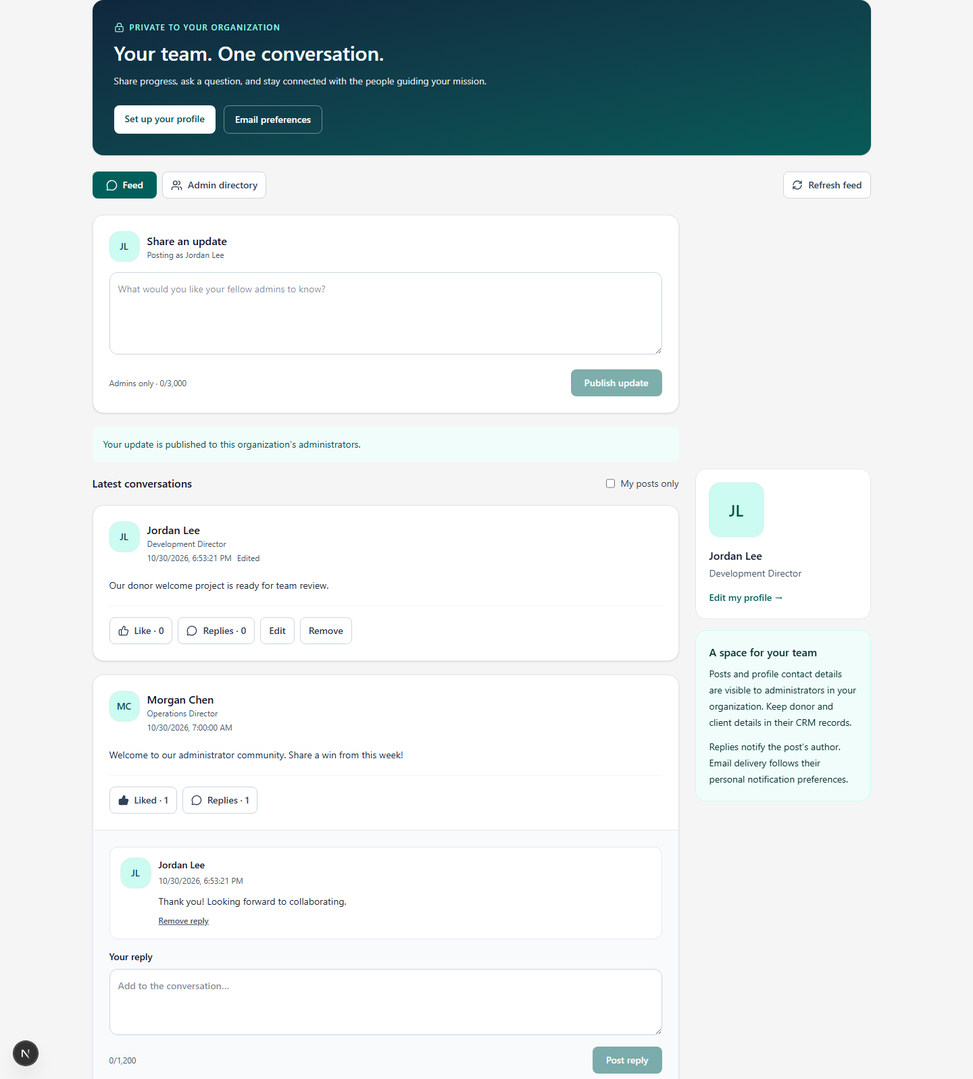
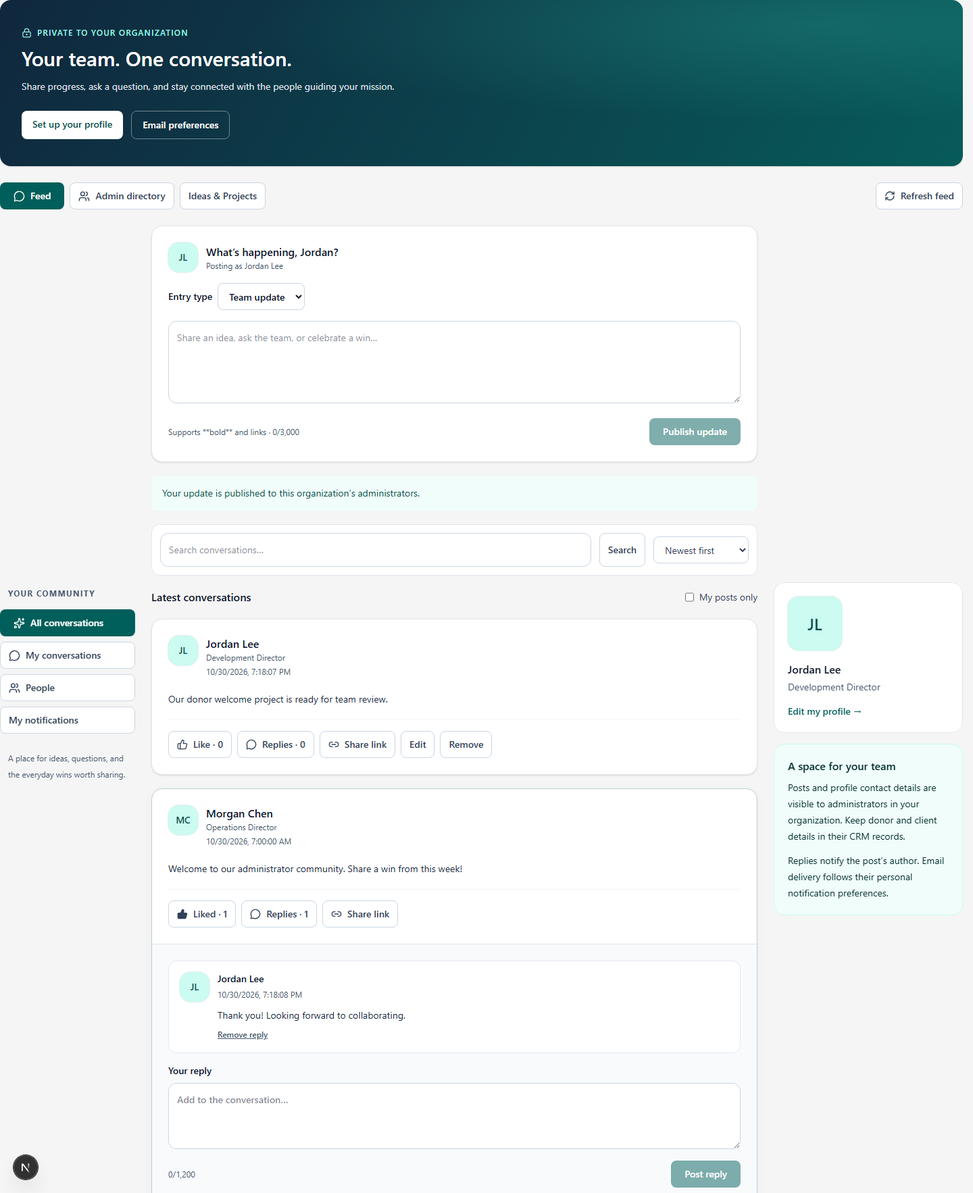
update to social media site

diff --git a/app/components/community/AdminCommunity.tsx b/app/components/community/AdminCommunity.tsx
@@ -2,12 +2,12 @@
 import Link from "next/link";
 import { useSearchParams } from "next/navigation";
 import { useCallback, useEffect, useRef, useState } from "react";
-import { MessageCircle, ThumbsUp, Users, RefreshCw, LockKeyhole } from "lucide-react";
+import { MessageCircle, ThumbsUp, Users, RefreshCw, LockKeyhole, Link2, Sparkles } from "lucide-react";
 import { apiFetch } from "@/app/lib/auth-client";
 import { useAuth } from "@/app/components/auth/AuthProvider";
 import ProfileAvatar, { profileName, type ProfileIdentity } from "./ProfileAvatar";
 
-type Post = { id: string; body: string; authorId: string; author: ProfileIdentity; createdAt: string; updatedAt: string; _count: { replies: number; reactions: number }; reactions: Array<{ userId: string }> };
+type Post = { kind?: string; stage?: string; title?: string | null; id: string; body: string; authorId: string; author: ProfileIdentity; createdAt: string; updatedAt: string; _count: { replies: number; reactions: number }; reactions: Array<{ userId: string }> };
 type Reply = { id: string; body: string; authorId: string; author: ProfileIdentity; createdAt: string };
 type Member = ProfileIdentity & { bio: string | null; timezone: string | null; email: string; phone: string | null };
 type Page<T> = { items: T[]; hasMore: boolean };
@@ -20,48 +20,62 @@ function Stamp({ value }: { value: string }) { return <time dateTime={value} cla
 
 export default function AdminCommunity() {
   const { user, loading: authLoading } = useAuth();
-  const [tab, setTab] = useState<"feed" | "members">("feed");
+  const [tab, setTab] = useState<"feed" | "members" | "board">("feed");
+  const [search, setSearch] = useState(""), [query, setQuery] = useState(""), [sort, setSort] = useState("new");
   const [mine, setMine] = useState(false), [page, setPage] = useState(1);
   const [feed, setFeed] = useState<Page<Post>>({ items: [], hasMore: false });
   const searchParams = useSearchParams();
   const focusPost = searchParams.get("post");
   const [loading, setLoading] = useState(true), [error, setError] = useState("");
+  const [kind, setKind] = useState("UPDATE"), [title, setTitle] = useState("");
   const [body, setBody] = useState(""), [posting, setPosting] = useState(false), [notice, setNotice] = useState("");
   const request = useRef<{ id: string; body: string } | null>(null), sending = useRef(false), generation = useRef(0);
   const load = useCallback(async () => {
     const current = ++generation.current; setLoading(true); setError("");
     try {
-      const result = focusPost ? { items: [await apiFetch<Post>(`${root}/posts/${encodeURIComponent(focusPost)}`)], hasMore: false } : await apiFetch<Page<Post>>(`${root}/posts?page=${page}&mine=${mine}`);
+      const result = focusPost ? { items: [await apiFetch<Post>(`${root}/posts/${encodeURIComponent(focusPost)}`)], hasMore: false } : await apiFetch<Page<Post>>(`${root}/posts?page=${page}&mine=${mine}&search=${encodeURIComponent(query)}&sort=${sort}&board=${tab === "board"}`);
       if (generation.current === current) setFeed(result);
     } catch (reason) { if (generation.current === current) setError(message(reason)); }
     finally { if (generation.current === current) setLoading(false); }
-  }, [page, mine, focusPost]);
+  }, [page, mine, focusPost, query, sort, tab]);
   useEffect(() => { const counter = generation; if (user?.role === "admin") void load(); return () => { counter.current++; }; }, [load, user?.role]);
   if (authLoading) return <p role="status" className="p-6">Loading your workspace…</p>;
   if (user?.role !== "admin") return <section className="rounded-xl border bg-white p-8"><h1 className="text-xl font-semibold">Admin community</h1><p className="mt-3">This private workspace is available to your organization’s administrators.</p><Link href="/" className="mt-4 inline-block text-teal-800 underline">Return to dashboard</Link></section>;
-  return <div className="mx-auto max-w-6xl space-y-6 pb-10">
+  return <div className="community-workspace w-full min-w-0 space-y-6 pb-10">
     <header className="overflow-hidden rounded-2xl bg-gradient-to-br from-[#10273d] to-[#075b59] p-6 shadow-sm sm:p-8">
       <p className="flex items-center gap-2 text-xs font-semibold uppercase tracking-widest text-teal-200"><LockKeyhole size={15} />Private to your organization</p>
       <h1 className="mt-3 text-3xl font-semibold" style={{ color: "#fff" }}>Your team. One conversation.</h1>
       <p className="mt-3 max-w-xl text-sm leading-6 text-slate-200">Share progress, ask a question, and stay connected with the people guiding your mission.</p>
       <div className="mt-6 flex flex-wrap gap-3"><Link href="/settings/profile" className="rounded-lg bg-white px-4 py-2.5 text-sm font-semibold text-teal-900">Set up your profile</Link><Link href="/settings/notification-email" className="rounded-lg border border-white/40 px-4 py-2.5 text-sm font-semibold text-white">Email preferences</Link></div>
     </header>
-    <div className="flex flex-wrap items-center justify-between gap-3"><nav aria-label="Community views" className="flex gap-2"><button className={tab === "feed" ? primary : button} aria-pressed={tab === "feed"} onClick={() => setTab("feed")}><MessageCircle size={17} />Feed</button><button className={tab === "members" ? primary : button} aria-pressed={tab === "members"} onClick={() => setTab("members")}><Users size={17} />Admin directory</button></nav>{tab === "feed" && <button className={button} disabled={loading} onClick={() => void load()}><RefreshCw size={16} className={loading ? "motion-safe:animate-spin" : ""} />Refresh feed</button>}</div>
-    {tab === "members" ? <Directory /> : <div className="grid items-start gap-6 lg:grid-cols-[minmax(0,1fr)_260px]">
+    <div className="flex flex-wrap items-center justify-between gap-3"><nav aria-label="Community views" className="flex flex-wrap gap-2"><button className={tab === "feed" ? primary : button} aria-pressed={tab === "feed"} onClick={() => setTab("feed")}><MessageCircle size={17} />Feed</button><button className={tab === "members" ? primary : button} aria-pressed={tab === "members"} onClick={() => setTab("members")}><Users size={17} />Admin directory</button><button className={tab === "board" ? primary : button} aria-pressed={tab === "board"} onClick={() => { setTab("board"); setKind("IDEA"); setPage(1); }}>Ideas & Projects</button></nav>{tab !== "members" && <button className={button} disabled={loading} onClick={() => void load()}><RefreshCw size={16} className={loading ? "motion-safe:animate-spin" : ""} />Refresh feed</button>}</div>
+    {tab === "members" ? <Directory /> : <div className="grid items-start gap-6 xl:grid-cols-[200px_minmax(0,1fr)_280px]">
+      <nav aria-label="Feed navigation" className="community-feed-nav space-y-2 xl:sticky xl:top-24">
+        <p className="px-3 py-2 text-xs font-bold uppercase tracking-widest text-slate-600">Your community</p>
+        <button className={`${!mine ? primary : button} w-full justify-start`} onClick={() => { setMine(false); setPage(1); }}><Sparkles size={17} />All conversations</button>
+        <button className={`${mine ? primary : button} w-full justify-start`} onClick={() => { setMine(true); setPage(1); }}><MessageCircle size={17} />My conversations</button>
+        <button className={`${button} w-full justify-start`} onClick={() => setTab("members")}><Users size={17} />People</button>
+        <Link href="/notifications" className={`${button} w-full justify-start`}>My notifications</Link>
+        <p className="px-3 pt-4 text-xs leading-6 text-slate-600">A place for ideas, questions, and the everyday wins worth sharing.</p>
+      </nav>
       <main className="min-w-0 space-y-5">
         {!focusPost && <form className="space-y-4 rounded-2xl border border-slate-200 bg-white p-5 shadow-sm sm:p-6" onSubmit={async event => {
           event.preventDefault(); if (sending.current || !body.trim()) return; sending.current = true; setPosting(true); setNotice(""); setError("");
-          if (!request.current || request.current.body !== body) request.current = { id: crypto.randomUUID(), body };
-          try { await apiFetch(`${root}/posts`, { method: "POST", body: JSON.stringify({ body, requestId: request.current.id }) }); setBody(""); request.current = null; setNotice("Your update is published to this organization’s administrators."); if (page === 1) await load(); else setPage(1); }
+          if (!request.current || request.current.body !== JSON.stringify([body, kind, title])) request.current = { id: crypto.randomUUID(), body: JSON.stringify([body, kind, title]) };
+          try { await apiFetch(`${root}/posts`, { method: "POST", body: JSON.stringify({ body, kind, title, requestId: request.current.id }) }); setBody(""); setTitle(""); request.current = null; setNotice("Your update is published to this organization’s administrators."); if (page === 1) await load(); else setPage(1); }
           catch (reason) { setError(message(reason)); } finally { sending.current = false; setPosting(false); }
         }}>
-          <div className="flex items-center gap-3"><ProfileAvatar person={user} /><div><h2 className="font-semibold">Share an update</h2><p className="text-xs text-slate-600">Posting as {profileName(user)}</p></div></div>
-          <label className="block"><span className="sr-only">Your update</span><textarea className={input} rows={4} maxLength={3000} required disabled={posting} placeholder="What would you like your fellow admins to know?" value={body} onChange={event => setBody(event.target.value)} /></label>
-          <div className="flex flex-wrap items-center justify-between gap-3"><span className="text-xs text-slate-600">Admins only · {body.length}/3,000</span><button disabled={posting || !body.trim()} className={primary}>{posting ? "Publishing…" : "Publish update"}</button></div>
+          <div className="flex items-center gap-3"><ProfileAvatar person={user} /><div><h2 className="font-semibold">What’s happening, {user.preferredName || user.firstName}?</h2><p className="text-xs text-slate-600">Posting as {profileName(user)}</p></div></div>
+          <div className="flex flex-wrap gap-3"><label className="flex items-center gap-2 text-sm font-semibold">Entry type<select aria-label="Entry type" className="min-h-10 rounded-lg border border-slate-300 bg-white px-3" disabled={posting} value={kind} onChange={event => setKind(event.target.value)}><option value="UPDATE">Team update</option><option value="IDEA">Idea</option><option value="PROJECT">Project</option><option value="QUESTION">Question</option></select></label></div>
+          {kind !== "UPDATE" && <label className="block text-sm font-semibold">Title<input className={`${input} mt-2`} maxLength={160} required disabled={posting} value={title} onChange={event => setTitle(event.target.value)} placeholder="Give your idea, project, or question a clear title" /></label>}
+          <label className="block"><span className="sr-only">Your update</span><textarea className={input} rows={4} maxLength={3000} required disabled={posting} placeholder="Share an idea, ask the team, or celebrate a win…" value={body} onChange={event => setBody(event.target.value)} /></label>
+          <div className="flex flex-wrap items-center justify-between gap-3"><span className="text-xs text-slate-600">Supports **bold** and links · {body.length}/3,000</span><button disabled={posting || !body.trim()} className={primary}>{posting ? "Publishing…" : "Publish update"}</button></div>
         </form>}
+        {tab === "board" && <section className="rounded-xl border border-teal-200 bg-teal-50 p-5"><h2 className="font-semibold text-teal-950">Turn a conversation into progress</h2><p className="mt-2 text-sm leading-6 text-teal-950">Propose an idea, plan a project, or ask a question. Use replies for answers and working notes. Every admin can move entries through Open, Planned, In progress, and Complete.</p><p className="mt-3 text-xs text-teal-900">Tip: search before adding an idea, then sort by most discussed or liked to find team priorities.</p></section>}
         {notice && <p role="status" className="rounded-lg bg-teal-50 p-4 text-sm text-teal-900">{notice}</p>}
         {error && <p role="alert" className="rounded-lg border border-red-200 bg-red-50 p-4 text-sm text-red-800">{error}</p>}
-        <div className="flex flex-wrap items-center justify-between gap-3"><h2 className="font-semibold">{focusPost ? "Conversation" : "Latest conversations"}</h2>{focusPost ? <Link href="/community" className="text-sm font-semibold text-teal-800">All conversations</Link> : <label className="flex gap-2 text-sm text-slate-700"><input type="checkbox" checked={mine} onChange={event => { setMine(event.target.checked); setPage(1); }} />My posts only</label>}</div>
+        {!focusPost && <form className="flex flex-wrap gap-3 rounded-xl border border-slate-200 bg-white p-3" onSubmit={event => { event.preventDefault(); setQuery(search.trim()); setPage(1); }}><label className="min-w-0 flex-1"><span className="sr-only">Search conversations</span><input type="search" className={input} maxLength={100} placeholder="Search conversations…" value={search} onChange={event => setSearch(event.target.value)} /></label><button className={button}>Search</button><label className="flex items-center gap-2 text-sm text-slate-700"><span className="sr-only">Feed order</span><select className="min-h-10 rounded-lg border border-slate-300 bg-white px-3" value={sort} onChange={event => { setSort(event.target.value); setPage(1); }}><option value="new">Newest first</option><option value="discussed">Most discussed</option><option value="liked">Most liked</option></select></label></form>}
+        <div className="flex flex-wrap items-center justify-between gap-3"><h2 className="font-semibold">{focusPost ? "Conversation" : tab === "board" ? "Ideas, projects & questions" : "Latest conversations"}</h2>{focusPost ? <Link href="/community" className="text-sm font-semibold text-teal-800">All conversations</Link> : <label className="flex gap-2 text-sm text-slate-700"><input type="checkbox" checked={mine} onChange={event => { setMine(event.target.checked); setPage(1); }} />My posts only</label>}</div>
         {loading && !feed.items.length ? <div role="status" className="space-y-4 rounded-xl border bg-white p-6"><p className="text-sm text-slate-600">Loading conversations…</p><div className="h-24 rounded-lg bg-slate-100 motion-safe:animate-pulse" /></div> : !error && !feed.items.length ? <section className="rounded-xl border border-dashed border-slate-300 bg-white p-8 text-center"><h3 className="font-semibold">{mine ? "You haven’t posted yet" : "Start your first conversation"}</h3><p className="mt-2 text-sm text-slate-600">Share a team win, an idea, or a question using the composer above.</p></section> : !error && feed.items.map(post => <PostCard key={post.id} post={post} userId={user.id} onChanged={load} initiallyOpen={Boolean(focusPost)} />)}
         {!focusPost && <Pagination page={page} hasMore={feed.hasMore} disabled={loading} setPage={setPage} />}
       </main>
@@ -74,15 +88,17 @@ function Pagination({ page, hasMore, disabled, setPage }: { page: number; hasMor
   return <div className="flex items-center justify-between gap-3"><button className={button} disabled={disabled || page === 1} onClick={() => setPage(page - 1)}>Previous</button><span className="text-sm text-slate-600">Page {page}</span><button className={button} disabled={disabled || !hasMore || page >= 1000} onClick={() => setPage(page + 1)}>Next</button></div>;
 }
 function PostCard({ post, userId, onChanged, initiallyOpen }: { post: Post; userId: string; onChanged: () => Promise<void>; initiallyOpen: boolean }) {
-  const [open, setOpen] = useState(initiallyOpen), [editing, setEditing] = useState(false), [draft, setDraft] = useState(post.body);
-  const [busy, setBusy] = useState(false), [error, setError] = useState("");
+  const [open, setOpen] = useState(initiallyOpen), [editing, setEditing] = useState(false), [draft, setDraft] = useState(post.body), [draftTitle, setDraftTitle] = useState(post.title || "");
+  const [busy, setBusy] = useState(false), [error, setError] = useState(""), [copied, setCopied] = useState(false);
   const guard = useRef(false);
   async function action(work: () => Promise<unknown>) { if (guard.current) return; guard.current = true; setBusy(true); setError(""); try { await work(); setEditing(false); await onChanged(); } catch (reason) { setError(message(reason)); } finally { guard.current = false; setBusy(false); } }
   return <article className="overflow-hidden rounded-2xl border border-slate-200 bg-white shadow-sm">
     <div className="space-y-4 p-5 sm:p-6"><div className="flex items-start gap-3"><ProfileAvatar person={post.author} /><div className="min-w-0 flex-1"><h3 className="break-words font-semibold">{profileName(post.author)}</h3><p className="text-xs text-slate-600">{post.author.jobTitle || "Administrator"}</p><Stamp value={post.createdAt} />{post.updatedAt !== post.createdAt && <span className="ml-2 text-xs text-slate-600">Edited</span>}</div></div>
-      {editing ? <form className="space-y-3" onSubmit={event => { event.preventDefault(); void action(() => apiFetch(`${root}/posts/${post.id}`, { method: "PUT", body: JSON.stringify({ body: draft, updatedAt: post.updatedAt }) })); }}><label className="block text-sm font-semibold">Edit update<textarea required maxLength={3000} disabled={busy} className={`${input} mt-2`} value={draft} onChange={event => setDraft(event.target.value)} rows={5} /></label><div className="flex gap-2"><button className={primary} disabled={busy || !draft.trim()}>Save changes</button><button type="button" className={button} disabled={busy} onClick={() => setEditing(false)}>Cancel</button></div></form> : <p className="whitespace-pre-wrap break-words text-sm leading-7 text-slate-800 [overflow-wrap:anywhere]">{post.body}</p>}
+      {post.kind && post.kind !== "UPDATE" && <div className="flex flex-wrap items-center justify-between gap-3"><span className="rounded-full bg-teal-100 px-3 py-1 text-xs font-bold text-teal-900">{post.kind === "QUESTION" ? "Question & answers" : post.kind === "PROJECT" ? "Team project" : "Idea"}</span><label className="flex items-center gap-2 text-xs font-semibold text-slate-700">Stage<select aria-label="Stage" className="min-h-9 rounded-lg border border-slate-300 bg-white px-2" disabled={busy} value={post.stage || "OPEN"} onChange={event => { const stage = event.target.value; void action(() => apiFetch(`${root}/posts/${post.id}/stage`, { method: "PUT", body: JSON.stringify({ stage }) })); }}><option value="OPEN">Open</option><option value="PLANNED">Planned</option><option value="IN_PROGRESS">In progress</option><option value="DONE">Complete / answered</option></select></label></div>}
+      {post.title && <h3 className="break-words text-xl font-semibold text-slate-900">{post.title}</h3>}
+      {editing ? <form className="space-y-3" onSubmit={event => { event.preventDefault(); void action(() => apiFetch(`${root}/posts/${post.id}`, { method: "PUT", body: JSON.stringify({ body: draft, ...(post.title ? { title: draftTitle } : {}), updatedAt: post.updatedAt }) })); }}>{post.title && <label className="block text-sm font-semibold">Entry title<input className={input} required maxLength={160} disabled={busy} value={draftTitle} onChange={event => setDraftTitle(event.target.value)} /></label>}<label className="block text-sm font-semibold">Edit update<textarea required maxLength={3000} disabled={busy} className={`${input} mt-2`} value={draft} onChange={event => setDraft(event.target.value)} rows={5} /></label><div className="flex gap-2"><button className={primary} disabled={busy || !draft.trim()}>Save changes</button><button type="button" className={button} disabled={busy} onClick={() => setEditing(false)}>Cancel</button></div></form> : <PostText body={post.body} />}
       {error && <p role="alert" className="text-sm text-red-800">{error}</p>}
-      <div className="flex flex-wrap gap-2 border-t border-slate-100 pt-4"><button className={button} disabled={busy} aria-pressed={post.reactions.length > 0} onClick={() => void action(() => apiFetch(`${root}/posts/${post.id}/reaction`, { method: "PUT", body: JSON.stringify({ liked: !post.reactions.length }) }))}><ThumbsUp size={16} fill={post.reactions.length ? "currentColor" : "none"} />{post.reactions.length ? "Liked" : "Like"} · {post._count.reactions}</button><button className={button} aria-expanded={open} onClick={() => setOpen(!open)}><MessageCircle size={16} />Replies · {post._count.replies}</button>{post.authorId === userId && <><button className={button} disabled={busy} onClick={() => { setDraft(post.body); setEditing(true); }}>Edit</button><button className={button} disabled={busy} onClick={() => { if (window.confirm("Remove your post and its conversation from the feed?")) void action(() => apiFetch(`${root}/posts/${post.id}`, { method: "DELETE" })); }}>Remove</button></>}</div>
+      <div className="flex flex-wrap gap-2 border-t border-slate-100 pt-4"><button className={button} disabled={busy} aria-pressed={post.reactions.length > 0} onClick={() => void action(() => apiFetch(`${root}/posts/${post.id}/reaction`, { method: "PUT", body: JSON.stringify({ liked: !post.reactions.length }) }))}><ThumbsUp size={16} fill={post.reactions.length ? "currentColor" : "none"} />{post.reactions.length ? "Liked" : "Like"} · {post._count.reactions}</button><button className={button} aria-expanded={open} onClick={() => setOpen(!open)}><MessageCircle size={16} />Replies · {post._count.replies}</button><button className={button} onClick={async () => { try { await navigator.clipboard.writeText(`${window.location.origin}/community?post=${encodeURIComponent(post.id)}`); setCopied(true); } catch { setError("Could not copy the link. Open this conversation from Notifications or copy its URL."); } }}><Link2 size={16} />{copied ? "Link copied" : "Share link"}</button>{post.authorId === userId && <><button className={button} disabled={busy} onClick={() => { setDraft(post.body); setDraftTitle(post.title || ""); setEditing(true); }}>Edit</button><button className={button} disabled={busy} onClick={() => { if (window.confirm("Remove your post and its conversation from the feed?")) void action(() => apiFetch(`${root}/posts/${post.id}`, { method: "DELETE" })); }}>Remove</button></>}</div>
     </div>
     {open && <Replies postId={post.id} userId={userId} onChanged={onChanged} />}
   </article>;
@@ -117,4 +133,11 @@ function Directory() {
     {!loading && !error && !data.items.length && <p className="rounded-xl border bg-white p-6">No administrators match your search.</p>}
     <Pagination page={page} hasMore={data.hasMore} disabled={loading} setPage={setPage} />
   </section>;
+}
+
+function PostText({ body }: { body: string }) {
+  const [expanded, setExpanded] = useState(false);
+  const clipped = body.length > 650 && !expanded;
+  const text = clipped ? body.slice(0, 650) + "…" : body;
+  return <div><div className="space-y-3 text-sm leading-7 text-slate-800 [overflow-wrap:anywhere]">{text.split("\n").map((line, index) => <p key={index} className="whitespace-pre-wrap">{line.split(/(https?:\/\/[^\s]+|\*\*[^*]+\*\*)/g).map((part, key) => /^https?:\/\//.test(part) ? <a key={key} href={part} target="_blank" rel="noopener noreferrer" className="font-medium text-teal-800 underline">{part}</a> : part.startsWith("**") && part.endsWith("**") ? <strong key={key}>{part.slice(2, -2)}</strong> : part)}</p>)}</div>{body.length > 650 && <button className="mt-2 text-sm font-semibold text-teal-800" onClick={() => setExpanded(!expanded)}>{expanded ? "Show less" : "Read more"}</button>}</div>;
 }

diff --git a/tests/api/admin-community.test.ts b/tests/api/admin-community.test.ts
@@ -22,7 +22,7 @@ describe("organization-private administrator community", () => {
   it("directory only includes active same-organization admins and safe profile fields", async () => { await request(app).get(`${root}/members?search=Jordan`); const query = db.user.findMany.mock.calls[0][0]; expect(query.where).toMatchObject({ organizationId: "org1", role: "admin", active: true }); expect(query.select).not.toHaveProperty("passwordHash"); expect(query.select).not.toHaveProperty("lastLoginAt"); });
   it.each(["0", "1.5", "1001", "NaN"])("bounds pagination %s", async page => { expect((await request(app).get(`${root}/posts?page=${page}`)).status).toBe(400); });
   it.each(["", "  ", "a".repeat(3001), { text: "object" }])("rejects invalid post content", async body => { expect((await request(app).post(`${root}/posts`).send({ body, requestId })).status).toBe(400); expect(db.communityPost.create).not.toHaveBeenCalled(); });
-  it("ignores supplied author and tenant when publishing", async () => { expect((await request(app).post(`${root}/posts`).send({ body: "Hello team", requestId, authorId: "foreign", organizationId: "foreign" })).status).toBe(201); expect(db.communityPost.create.mock.calls[0][0].data).toEqual({ body: "Hello team", authorId: "admin1", organizationId: "org1", requestId: `admin1:${requestId}` }); });
+  it("ignores supplied author and tenant when publishing", async () => { expect((await request(app).post(`${root}/posts`).send({ body: "Hello team", requestId, authorId: "foreign", organizationId: "foreign" })).status).toBe(201); expect(db.communityPost.create.mock.calls[0][0].data).toEqual({ kind: "UPDATE", title: null, body: "Hello team", authorId: "admin1", organizationId: "org1", requestId: `admin1:${requestId}` }); });
   it("returns the existing post after a lost-response retry", async () => { db.communityPost.create.mockRejectedValue({ code: "P2002" }); expect((await request(app).post(`${root}/posts`).send({ body: post.body, requestId })).status).toBe(200); expect(db.communityPost.findFirst.mock.lastCall?.[0].where).toMatchObject({ organizationId: "org1", authorId: "admin1", requestId: `admin1:${requestId}`, body: post.body }); });
   it("rejects an idempotency key reused for different content", async () => { db.communityPost.create.mockRejectedValue({ code: "P2002" }); db.communityPost.findFirst.mockResolvedValue(null); expect((await request(app).post(`${root}/posts`).send({ body: "new content", requestId })).status).toBe(409); });
   it("requires ownership and original revision to edit", async () => { db.communityPost.updateMany.mockResolvedValue({ count: 0 }); expect((await request(app).put(`${root}/posts/post1`).send({ body: "edit", updatedAt: post.updatedAt.toISOString() })).status).toBe(409); expect(db.communityPost.updateMany.mock.calls[0][0].where).toEqual({ id: "post1", organizationId: "org1", authorId: "admin1", deletedAt: null, updatedAt: post.updatedAt }); });
@@ -36,3 +36,9 @@ describe("organization-private administrator community", () => {
   it("like uses a desired state, not a toggle that can invert on retry", async () => { for (let i = 0; i < 2; i++) expect((await request(app).put(`${root}/posts/post1/reaction`).send({ liked: true, userId: "other" })).status).toBe(200); expect(db.communityReaction.upsert.mock.calls[0][0]).toMatchObject({ where: { postId_userId: { postId: "post1", userId: "admin1" } }, update: {} }); });
   it("returns actionable migration errors instead of a fake empty feed", async () => { db.communityPost.findMany.mockRejectedValue({ code: "P2021" }); const response = await request(app).get(`${root}/posts`); expect(response.status).toBe(503); expect(response.body.error.code).toBe("MIGRATION_REQUIRED"); });
 });
+
+it("filters board entries and searches titles and descriptions", async () => { await request(app).get(`${root}/posts?board=true&search=welcome&sort=discussed`); const query = db.communityPost.findMany.mock.calls[0][0]; expect(query.where).toMatchObject({ organizationId: "org1", kind: { in: ["IDEA", "PROJECT", "QUESTION"] }, OR: [{ body: { contains: "welcome" } }, { title: { contains: "welcome" } }] }); expect(query.orderBy[0]).toEqual({ replies: { _count: "desc" } }); });
+it("validates project titles before publishing", async () => { expect((await request(app).post(`${root}/posts`).send({ body: "Description", kind: "PROJECT", title: "", requestId })).status).toBe(400); expect(db.communityPost.create).not.toHaveBeenCalled(); });
+it("creates a titled question with the authenticated author", async () => { expect((await request(app).post(`${root}/posts`).send({ body: "Details", kind: "QUESTION", title: "How can we improve welcome calls?", requestId })).status).toBe(201); expect(db.communityPost.create.mock.calls[0][0].data).toMatchObject({ kind: "QUESTION", title: "How can we improve welcome calls?", authorId: "admin1" }); });
+it("updates project stage only within the current organization", async () => { expect((await request(app).put(`${root}/posts/post1/stage`).send({ stage: "IN_PROGRESS" })).status).toBe(200); expect(db.communityPost.updateMany.mock.calls[0][0]).toMatchObject({ where: { organizationId: "org1", deletedAt: null, kind: { in: ["IDEA", "PROJECT", "QUESTION"] } }, data: { stage: "IN_PROGRESS" } }); });
+it("rejects an invalid stage without writing", async () => { expect((await request(app).put(`${root}/posts/post1/stage`).send({ stage: "invalid" })).status).toBe(400); expect(db.communityPost.updateMany).not.toHaveBeenCalled(); });

diff --git a/server/src/routes/admin-community.ts b/server/src/routes/admin-community.ts
@@ -49,7 +49,11 @@ router.get("/members", route(async (req, res, actor) => {
 }));
 router.get("/posts", route(async (req, res, actor) => {
   const page = pageNumber(req.query.page);
-  const items = await prisma.communityPost.findMany({ where: { organizationId: actor.organizationId, deletedAt: null, ...(req.query.mine === "true" ? { authorId: actor.id } : {}) }, include: postInclude(actor.id), orderBy: [{ createdAt: "desc" }, { id: "desc" }], take: 21, skip: (page - 1) * 20 });
+  const search = typeof req.query.search === "string" ? req.query.search.trim().slice(0, 100) : "";
+  const board = req.query.board === "true";
+  const sort = req.query.sort ?? "new";
+  if (!["new", "discussed", "liked"].includes(String(sort))) reject(400, "Choose a valid feed order.");
+  const items = await prisma.communityPost.findMany({ where: { organizationId: actor.organizationId, deletedAt: null, ...(board ? { kind: { in: ["IDEA", "PROJECT", "QUESTION"] } } : {}), ...(search ? { OR: [{ body: { contains: search } }, { title: { contains: search } }] } : {}), ...(req.query.mine === "true" ? { authorId: actor.id } : {}) }, include: postInclude(actor.id), orderBy: [...(sort === "discussed" ? [{ replies: { _count: "desc" as const } }] : sort === "liked" ? [{ reactions: { _count: "desc" as const } }] : []), { createdAt: "desc" }, { id: "desc" }], take: 21, skip: (page - 1) * 20 });
   res.json({ items: items.slice(0, 20), hasMore: items.length > 20 });
 }));
 router.get("/posts/:id", route(async (req, res, actor) => {
@@ -58,21 +62,32 @@ router.get("/posts/:id", route(async (req, res, actor) => {
 }));
 router.post("/posts", route(async (req, res, actor) => {
   const body = textBody(req.body?.body, 3000), key = requestId(req.body?.requestId, actor);
-  const data = { organizationId: actor.organizationId, authorId: actor.id, body, requestId: key };
+  const kind = req.body?.kind ?? "UPDATE";
+  if (!["UPDATE", "IDEA", "PROJECT", "QUESTION"].includes(kind)) reject(400, "Choose an entry type.");
+  const title = kind === "UPDATE" ? null : textBody(req.body?.title, 160);
+  const data = { organizationId: actor.organizationId, authorId: actor.id, body, requestId: key, kind, title };
   try { const post = await prisma.communityPost.create({ data }); res.status(201).json({ id: post.id }); }
   catch (error) {
     if ((error as { code?: string }).code !== "P2002") throw error;
-    const existing = await prisma.communityPost.findFirst({ where: { requestId: key, organizationId: actor.organizationId, authorId: actor.id, body, deletedAt: null } });
+    const existing = await prisma.communityPost.findFirst({ where: { requestId: key, organizationId: actor.organizationId, authorId: actor.id, body, kind, title, deletedAt: null } });
     if (!existing) reject(409, "This request was already used. Refresh before posting again.");
     res.json({ id: existing.id });
   }
 }));
 router.put("/posts/:id", route(async (req, res, actor) => {
   const body = textBody(req.body?.body, 3000);
+  const title = req.body?.title === undefined ? undefined : req.body.title === null ? null : textBody(req.body.title, 160);
   const updatedAt = new Date(req.body?.updatedAt);
   if (!Number.isFinite(updatedAt.getTime())) reject(400, "Reload this post before editing.");
-  const result = await prisma.communityPost.updateMany({ where: { id: String(req.params.id), organizationId: actor.organizationId, authorId: actor.id, deletedAt: null, updatedAt }, data: { body } });
+  const result = await prisma.communityPost.updateMany({ where: { id: String(req.params.id), organizationId: actor.organizationId, authorId: actor.id, deletedAt: null, updatedAt }, data: { body, ...(title !== undefined ? { title } : {}) } });
   if (!result.count) reject(409, "This post changed or is no longer editable. Refresh before trying again.");
+  res.json({ saved: true });
+}));
+router.put("/posts/:id/stage", route(async (req, res, actor) => {
+  const stage = req.body?.stage;
+  if (!["OPEN", "PLANNED", "IN_PROGRESS", "DONE"].includes(stage)) reject(400, "Choose a valid stage.");
+  const result = await prisma.communityPost.updateMany({ where: { id: String(req.params.id), organizationId: actor.organizationId, deletedAt: null, kind: { in: ["IDEA", "PROJECT", "QUESTION"] } }, data: { stage } });
+  if (!result.count) reject(404, "Board entry unavailable.");
   res.json({ saved: true });
 }));
 router.delete("/posts/:id", route(async (req, res, actor) => {

diff --git a/app/design-system.css b/app/design-system.css
@@ -21,8 +21,8 @@
   --oyama-teal: #007f80;
   --oyama-teal-hover: #006b6c;
   --oyama-teal-soft: #e4f4f3;
-  --oyama-canvas: #f8fafb;
-  --oyama-surface: #fff;
+  --oyama-canvas: #eef2f4;
+  --oyama-surface: #f9faf8;
   --oyama-heading: #101f43;
   --oyama-text: #334155;
   --oyama-muted: #64748b;
@@ -264,3 +264,14 @@
 .oyama-settings-sidebar nav a { min-height:48px; }
 .oyama-settings-sidebar nav a[aria-current=page] { border-left:3px solid #007f80; background:#e7f3f5; }
 @media(prefers-reduced-motion:no-preference) { .crm-notification-list > li { transition:background-color 180ms ease,border-color 180ms ease; } }
+
+/* Softer internal workspace surfaces; authored/public documents keep their own colors. */
+@media screen {
+  :is(.crm-fonts.crm-fonts,.event-studio-shell,.compassion-shell.care-app,[data-oyama-module]) .bg-white:not(.event-public-document, .event-public-document *, [data-oyama-authored], [data-oyama-authored] *) { background-color: var(--oyama-surface); }
+}
+.community-workspace article { transition: box-shadow .18s ease, border-color .18s ease; }
+.community-workspace article:hover { border-color: #bbcdd2; box-shadow: 0 5px 20px #10283f08; }
+.community-workspace > header { position: relative; background-image: radial-gradient(ellipse at 85% 15%,#2c9c9050,transparent 48%),linear-gradient(120deg,#10273d,#075b59); }
+@media (min-width:1280px) { .community-workspace > header { padding-block: 2.5rem; } }
+@media (max-width:1279px) { .community-feed-nav { display:flex; flex-wrap:wrap; gap:8px; } .community-feed-nav > p { display:none; } .community-feed-nav > button,.community-feed-nav > a { width:auto; } }
+@media (prefers-reduced-motion:reduce) { .community-workspace article { transition:none; } }

diff --git a/app/components/layout/DonorMegaMenu.tsx b/app/components/layout/DonorMegaMenu.tsx
@@ -4,7 +4,7 @@
 import Link from "next/link";
 import { useEffect, useMemo, useRef, useState } from "react";
 import { usePathname } from "next/navigation";
-import { ChevronDown, Search, X } from "lucide-react";
+import { ChevronDown, Search, X, MessagesSquare } from "lucide-react";
 import { useAuth } from "@/app/components/auth/AuthProvider";
 import { usePlugins } from "@/app/components/plugins/PluginProvider";
 import type { CrmSidebarItem } from "./CrmSidebar";
@@ -90,6 +90,7 @@ export default function DonorMegaMenu({ chromeTint }: DonorMegaMenuProps) {
           <CrmBrandLockup moduleLabel="Donor CRM" tone="light" className="w-full" />
         </Link>
         {navigation(false)}
+        {user?.role === "admin" && <Link href="/community" aria-label="Open Admin community" aria-current={pathname === "/community" ? "page" : undefined} className="mx-3 mt-3 flex min-h-14 items-center gap-3 rounded-xl border border-teal-300/30 bg-teal-400/10 px-4 text-sm font-semibold text-white hover:bg-teal-400/20"><MessagesSquare className="h-6 w-6 text-teal-200" /><span>Community<span className="block text-xs font-normal text-teal-100">Connect with your team</span></span></Link>}
         <button type="button" onClick={() => window.dispatchEvent(new Event("crm:focus-topbar-search"))}
           className="m-3 flex min-h-11 items-center gap-3 rounded-lg border border-white/20 px-3 text-sm text-slate-200 hover:bg-white/10 focus-visible:outline-none focus-visible:ring-2 focus-visible:ring-sky-300">
           <Search className="h-4 w-4" aria-hidden="true" />Search CRM

diff --git a/docs/status/features.md b/docs/status/features.md
@@ -1,3 +1,9 @@
+## Community social workspace and ideas board — 2026-10-30
+
+Community now fills the available workspace width with persistent desktop sidebar access, feed navigation, conversation search, newest/most-discussed/most-liked ordering, safe bold/link rendering, expandable long posts and shareable conversation links. Internal workspace surfaces use softer off-white and gray colors, excluding authored/public documents.
+
+Ideas & Projects adds titled ideas, projects and questions with shared Open/Planned/In progress/Complete stages. Replies serve as answers and working notes; personal reply notifications remain available. Search and popularity ordering help surface existing ideas and team priorities. This is a lightweight collaborative board; no AI prioritization, project assignments, due dates or dependency scheduling are claimed. Requires migration `20261031020000_community_boards` after the community migration. No migrations or deployment were performed.
+
 ## Administrator profiles and internal community — 2026-10-30
 
 Added `/community`: an organization-private administrator feed with plain-text posts, author editing/removal, paginated replies, likes, personal-post filtering and a searchable administrator directory. Navigation exposes the community to admins. Every community API request rechecks active administrator membership and organization from the authenticated identity. Post/reply retries use unique request identifiers; edits check the original revision. Replies and their author notification are written in one transaction; self-replies do not notify. Personal email subscriptions may deliver these own-alert notifications.

diff --git a/docs/status/production-readiness-checklist.md b/docs/status/production-readiness-checklist.md
@@ -1,3 +1,9 @@
+## Community social workspace and ideas board — 2026-10-30
+
+Community now fills the available workspace width with persistent desktop sidebar access, feed navigation, conversation search, newest/most-discussed/most-liked ordering, safe bold/link rendering, expandable long posts and shareable conversation links. Internal workspace surfaces use softer off-white and gray colors, excluding authored/public documents.
+
+Ideas & Projects adds titled ideas, projects and questions with shared Open/Planned/In progress/Complete stages. Replies serve as answers and working notes; personal reply notifications remain available. Search and popularity ordering help surface existing ideas and team priorities. This is a lightweight collaborative board; no AI prioritization, project assignments, due dates or dependency scheduling are claimed. Requires migration `20261031020000_community_boards` after the community migration. No migrations or deployment were performed.
+
 ## Administrator profiles and internal community — 2026-10-30
 
 Added `/community`: an organization-private administrator feed with plain-text posts, author editing/removal, paginated replies, likes, personal-post filtering and a searchable administrator directory. Navigation exposes the community to admins. Every community API request rechecks active administrator membership and organization from the authenticated identity. Post/reply retries use unique request identifiers; edits check the original revision. Replies and their author notification are written in one transaction; self-replies do not notify. Personal email subscriptions may deliver these own-alert notifications.

diff --git a/docs/status/audit-artifacts/2026-10-30-admin-community/verification.md b/docs/status/audit-artifacts/2026-10-30-admin-community/verification.md
@@ -10,3 +10,7 @@
 - Migration: `20261031010000_admin_community`; apply prerequisite pending migrations through the normal deployment process. No migration, deployment, live enrollment or outbound communication was performed here.
 - Content is plain text rendered through React. Directory returns explicit profile fields, not credentials or account activity. External profile photos must use HTTPS and are loaded without a referrer; initials are the fallback.
 - Initial feature scope: shared admin feed, one-level reply threads, likes, own-content management and directory. No attachments, private messages, mentions, moderation console or live feed streaming. Use Refresh feed for new posts. Soft-deleted content remains in the database but is excluded from the community APIs.
+
+## Social workspace and ideas board follow-up
+
+30 community API tests passed, including search/order, titled project/question creation and stage validation/scoping. Web/server type checks, targeted ESLint and Prisma validation passed. Synthetic browser checks passed for publishing a project and moving it to In progress, in addition to the existing feed/profile flows. Feed screenshots were refreshed at desktop/mobile widths. Shared internal surfaces now use off-white; public/authored documents are excluded from the new utility override. No database migration or deployment occurred. Requires additional migration `20261031020000_community_boards`.
